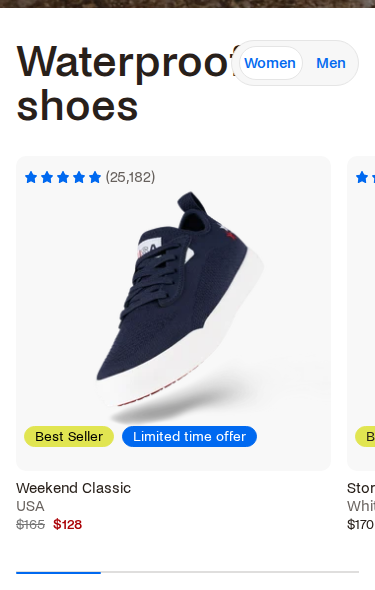
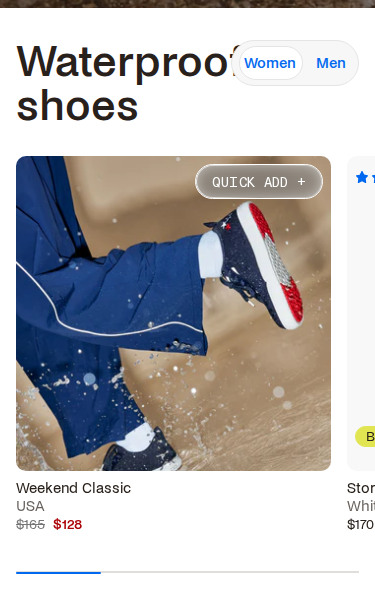
Vessi inventory (DTC-69 #34): interact retries + honest leftovers
Retry menu (#mobile-menu-drawer), PDP size radio, and cart ATC via UI.
Men tab still unchanged after two attempts. Announcement/search-375 stay
leftover. Todo and candidates updated; validator 0 error.

diff --git a/todo/vessi.md b/todo/vessi.md
@@ -3,8 +3,8 @@
 *Kaynak:* https://vessi.com · *Preset:* `default`  
 *Tema (vitrinde görülen, uydurulmadı):* **vessi-storefront/main-us** · `schema_name`: **Vessi** · `schema_version`: 1.0.0 · `theme_store_id`: null (custom) · shop `vessi-footwear.myshopify.com` · theme id `129927970901` · role `main`
 
-**Durum:** Mod A walk — observation JSON yazıldı; resmi 3vp + interact sırada  
-**PR:** draft · **main'e merge yok**
+**Durum:** Mod A walk kapandı · 46 obs · 164 PNG · 0 yeni şema  
+**PR:** draft https://github.com/mattiasadem/qante/pull/58 · **main'e merge yok**
 
 ---
 
@@ -18,7 +18,7 @@
 | Parallel | yalnız `observations/vessi/`, `evidence/vessi/`, `todo/vessi.md`, `candidates/vessi-*.md` |
 
 **Kapsam satırı:**  
-`Vessi · default · vessi-storefront/main-us (Vessi 1.0.0, custom) · home→PDP→PLP→search→cart-drawer→content→footer→mobile · 46 obs · 0 yeni şema · leftover: 404/reviews/Gorgias/quick-add/ID.me/map`
+`Vessi · default · vessi-storefront/main-us (Vessi 1.0.0, custom) · home→PDP→PLP→search→cart-drawer→content→footer→mobile · 46 obs · 164 PNG · 0 yeni şema · leftover: announcement-dismiss / Men-tab / search-375 / reviews / Gorgias / quick-add / ID.me / map`
 
 ---
 
@@ -26,18 +26,18 @@
 
 | Şablon | Durum | 3vp |
 |---|---|---|
-| Home + announcement/header/footer | JSON | [ ] |
-| Women mega 1440 / search `weekend` / cart empty+filled / mobile menu | JSON interact | [ ] |
-| PDP `/products/womens-weekend-classic-marble-white` | JSON | [ ] |
-| PLP `/collections/women` | JSON | [ ] |
-| Search `/search?q=weekend` (64) | JSON | [ ] |
-| Cart `/cart` → `/#cart` drawer | JSON | — sayfa yok |
-| Our Story `/pages/our-story` | JSON | [ ] |
-| Contact (form **yok**; e-posta tile) | JSON | [ ] |
-| Blog `/blogs/the-forecast` + `best-waterproof-shoes` | JSON | [ ] |
-| Privacy `main#MainContent` | JSON | [ ] |
-| Help / returns / warranty / sizing | JSON | [ ] |
-| 404 | JSON + leftover | [ ] |
+| Home + header/footer | done | [x] (announcement leftover) |
+| Women mega 1440 / search `weekend` 1440 / cart empty+filled / mobile menu | done | [x] (search 375/768 leftover; cart 375 filled = PDP) |
+| PDP `/products/womens-weekend-classic-marble-white` | done | [x] |
+| PLP `/collections/women` | done | [x] |
+| Search `/search?q=weekend` (64) | done | [x] |
+| Cart `/cart` → `/#cart` drawer | done | — sayfa yok |
+| Our Story `/pages/our-story` | done | [x] |
+| Contact (form **yok**; e-posta tile + Live Chat) | done | [x] |
+| Blog `/blogs/the-forecast` + `best-waterproof-shoes` | done | [x] |
+| Privacy `main#MainContent` | done | [x] |
+| Help / returns / warranty / sizing | done | [x] |
+| 404 | done + leftover | [x] |
 | Newsletter / claim / ID.me / tracking | ⛔ PII yok | — |
 
 ---
@@ -46,29 +46,29 @@
 
 | # | id | sayfa | Screenshot | Not | JSON | Done |
 |---|---|---|---|---|---|---|
-| 1 | promo-announcement-bar | home | [ ] | [x] | reuse | [ ] |
-| 2 | navigation-header-mega | home | [ ] + Women | [x] | reuse | [ ] |
-| 3 | hero-slideshow | home | [ ] | [x] | reuse | [ ] |
-| 4 | product-showcase-tabs | home | [ ] + Men | [x] | reuse | [ ] |
-| 5 | editorial-image-with-text | home banner | [ ] | [x] | reuse | [ ] |
-| 6–9 | collection-nav-image-cards ×4 | home | [ ] | [x] | reuse | [ ] |
-| 10 | promo-scrolling-marquee | home | [ ] | [x] | reuse | [ ] |
-| 11 | editorial-dynamic-grid | home rain | [ ] | [x] | reuse | [ ] |
-| 12 | media-shop-the-feed | home IG | [ ] | [x] | reuse | [ ] |
-| 13 | faq-collapsible-tabs | home | [ ] | [x] | reuse | [ ] |
-| 14 | footer-columns-newsletter | home | [ ] | [x] PII yok | reuse | [ ] |
-| 15 | global-cart-drawer | home | [ ] | [x] | reuse | [ ] |
-| 16 | global-predictive-search | home | [ ] | [x] | reuse | [ ] |
-| 17 | global-menu-drawer | home | [ ] 375/768 | [x] | reuse | [ ] |
-| 18–24 | PDP 7 section | product-detail | [ ] | [x] | reuse | [ ] |
-| 25 | product-showcase-grid-plp | collection | [ ] | [x] | reuse | [ ] |
-| 26 | search-results | search | [ ] | [x] | reuse | [ ] |
-| 27–30 | Our Story | about-brand | [ ] | [x] | reuse | [ ] |
-| 31–33 | Contact | contact | [ ] | [x] | reuse | [ ] |
-| 34–36 | Blog list + post | blog-* | [ ] | [x] | reuse | [ ] |
-| 37 | page-content-main | policy | [ ] | [x] | reuse | [ ] |
-| 38–45 | help/returns/warranty/sizing | faq-support | [ ] | [x] | reuse | [ ] |
-| 46 | page-content-main | not-found | [ ] | leftover | reuse | [ ] |
+| 1 | promo-announcement-bar | home | [ ] leftover | [x] | reuse | [ ] |
+| 2 | navigation-header-mega | home | [x] + Women 1440 | [x] | reuse | [x] |
+| 3 | hero-slideshow | home | [x] | [x] | reuse | [x] |
+| 4 | product-showcase-tabs | home | [x] Women; Men missing | [x] | reuse | [x] |
+| 5 | editorial-image-with-text | home banner | [x] | [x] | reuse | [x] |
+| 6–9 | collection-nav-image-cards ×4 | home | [x] | [x] | reuse | [x] |
+| 10 | promo-scrolling-marquee | home | [x] | [x] | reuse | [x] |
+| 11 | editorial-dynamic-grid | home rain | [x] | [x] | reuse | [x] |
+| 12 | media-shop-the-feed | home IG | [x] | [x] | reuse | [x] |
+| 13 | faq-collapsible-tabs | home | [x] waterproof | [x] | reuse | [x] |
+| 14 | footer-columns-newsletter | home | [x] PII yok | [x] | reuse | [x] |
+| 15 | global-cart-drawer | home | [x] empty + filled 768/1440 | [x] | reuse | [x] |
+| 16 | global-predictive-search | home | [x] 1440 only | [x] | reuse | [x] |
+| 17 | global-menu-drawer | home | [x] 375/768 | [x] | reuse | [x] |
+| 18–24 | PDP 7 section | product-detail | [x] + size 6 | [x] | reuse | [x] |
+| 25 | product-showcase-grid-plp | collection | [x] | [x] | reuse | [x] |
+| 26 | search-results | search | [x] | [x] | reuse | [x] |
+| 27–30 | Our Story | about-brand | [x] | [x] | reuse | [x] |
+| 31–33 | Contact | contact | [x] | [x] | reuse | [x] |
+| 34–36 | Blog list + post | blog-* | [x] | [x] | reuse | [x] |
+| 37 | page-content-main | policy | [x] | [x] | reuse | [x] |
+| 38–45 | help/returns/warranty/sizing | faq-support | [x] + Sizing tab | [x] | reuse | [x] |
+| 46 | page-content-main | not-found | [x] leftover | [x] | reuse | [x] |
 
 ---
 
@@ -76,14 +76,15 @@
 
 | Bileşen | State | Sonuç |
 |---|---|---|
-| navigation-header-mega | open | [ ] 1440 Women click drawer |
-| global-predictive-search | input | [ ] `weekend` |
-| global-cart-drawer | filled | [ ] Weekend Classic |
-| global-menu-drawer | open | [ ] 375/768 |
-| product-showcase-tabs | changed | [ ] Men |
-| product-info-main | changed | [ ] beden 6 |
-| faq-collapsible-tabs home | changed | [ ] waterproof |
-| faq-collapsible-tabs help | changed | [ ] Sizing tab |
+| navigation-header-mega | open | [x] 1440 Women mega |
+| global-predictive-search | input | [x] 1440 `weekend` 8 products; 375/768 leftover |
+| global-cart-drawer | filled | [x] ATC **ui** after size 6; 768/1440 drawer; 375 PDP (ikinci tık kapattı) |
+| global-menu-drawer | open | [x] 375/768 `#mobile-menu-drawer` |
+| product-showcase-tabs | changed | [ ] 2 deneme — Women kaldı |
+| product-info-main | changed | [x] size 6 → Add to Cart |
+| faq-collapsible-tabs home | changed | [x] waterproof icon + → − |
+| faq-collapsible-tabs help | changed | [x] Sizing tab |
+| promo-announcement-bar | initial | [ ] official dismiss `announcement-bar--dismissed` |
 
 ---
 
@@ -95,7 +96,10 @@
 
 ## Evidence backlog
 
-- [ ] Claiming obs resmi 3vp
-- [ ] Mega / search / cart / menu / tabs / PDP / FAQ interact
+- [x] Claiming obs resmi 3vp (42 section + header interact bar)
+- [x] Mega / search 1440 / cart / menu / PDP size / FAQ interact
+- [ ] Men tab (2 deneme, piksel yok)
+- [ ] Announcement 3vp (dismiss class)
+- [ ] Search 375/768 (ikon menü içinde)
 - [ ] Reviews app / Gorgias / quick-add / size-guide
 - [ ] Newsletter / warranty claim / ID.me / tracking — **yapılmayacak** (PII)

diff --git a/candidates/vessi-leftovers.md b/candidates/vessi-leftovers.md
@@ -9,34 +9,58 @@
 ---
 
 ADAY: vessi-404s  
-Gerekçe: Bilinçli 404 — `/this-page-does-not-exist-xyz` (404 template: THIS PAGE DOESN’T EXIST… Return Home). Yanlış tahmin URL’leri de 404: `/pages/about`, `/pages/stores`, `/pages/find-a-store`, `/blogs/blog`. `/pages/about-us` → `/pages/vegan`. `/pages/faq` ve `/pages/faqs` → `/a/faq`.  
+Gerekçe: Bilinçli 404 — `/this-page-does-not-exist-xyz` (Oops! THIS PAGE DOESN'T EXIST… Return Home). Yanlış tahmin URL’leri de 404: `/pages/about`, `/pages/stores`, `/pages/find-a-store`, `/blogs/blog`. `/pages/about-us` → `/pages/vegan`. `/pages/faq` ve `/pages/faqs` → `/a/faq`.  
 Örnekler: https://vessi.com/this-page-does-not-exist-xyz  
 Öneri: 404 gövde `page-content-main` parent obs  
 Karar: leftover + parent obs
 
 ---
 
+ADAY: vessi-announcement-dismiss  
+Gerekçe: Official `dismissAllOverlays` “Close announcement” tıklar → `announcement-bar--dismissed` (display:none). `forceOpen` class’ı silmez; 3vp 0px. Walk metni: Free shipping on orders $150 and over + Free exchanges.  
+Karar: leftover — üçüncü deneme yok
+
+---
+
+ADAY: vessi-men-tab  
+Gerekçe: Home `collection_carousel` Women\|Men. `text=Men` ve `a[role=tab]:has-text('Men')` tıklandı; Women tab + aynı 4 kart kaldı.  
+Karar: leftover — 2 deneme
+
+---
+
+ADAY: vessi-search-mobile  
+Gerekçe: 375/768 header’da `Open search` yok / `data-mobile-drawer-nav-trigger=search` viewport dışı. Arama ikonu `#mobile-menu-drawer` içinde. 1440 predictive OK.  
+Karar: leftover
+
+---
+
+ADAY: vessi-cart-375-toggle  
+Gerekçe: ATC UI drawer’ı açıyor; 375’te sonraki cart tık kapatıyor. filled.375 PNG = PDP + badge 1. 768/1440 drawer OK.  
+Karar: leftover — üçüncü deneme yok
+
+---
+
 ADAY: vessi-gorgias-faq-app  
-Gerekçe: `/a/faq` Shopify section gövdesi yok (yalnız chrome + footer). İlk dump’ta shopify main boş; ikinci istek 429. Contact’ta Gorgias chat iframe (`chat-button` 80×74). Overlay, section değil.  
+Gerekçe: `/a/faq` Shopify section gövdesi yok (yalnız chrome + footer). Contact Help Centre “Live Chat” + Gorgias `chat-button`. Overlay, section değil.  
 Karar: leftover — dismiss; şema yok
 
 ---
 
 ADAY: vessi-reviews-app  
-Gerekçe: PDP `#template--16074643898453__reviews_wrapper_zpPi8T` Customer reviews 4.67 / 25,182. Taksonomide reviews section yok.  
+Gerekçe: PDP `#template--16074643898453__reviews_wrapper_zpPi8T` Customer reviews ~4.67 / 25,184. Taksonomide reviews section yok.  
 Öneri: şema yok  
 Karar: leftover
 
 ---
 
 ADAY: vessi-store-locator  
-Gerekçe: PDP `stores` “FIND A STORE · BELLEVUE SQUARE, WASHINGTON” ~373px. `/pages/stores` ve `/pages/find-a-store` 404.  
+Gerekçe: PDP “Find a store”. `/pages/stores` ve `/pages/find-a-store` 404.  
 Karar: leftover — yeni şema yok
 
 ---
 
 ADAY: vessi-quick-add  
-Gerekçe: `#quick-add-drawer` / `#shopify-section-quick-add-drawer` DOM’da (empty, translateX off-screen). Size-guide-modal + product-size-guide-override 0px.  
+Gerekçe: Home carousel kart “QUICK ADD +” (hover 1440). `#quick-add-drawer` DOM’da. Size-guide-modal 0px.  
 Karar: leftover — `open` yoklandı değil
 
 ---
@@ -44,6 +68,12 @@ Karar: leftover — `open` yoklandı değil
 ADAY: vessi-cart-page  
 Gerekçe: `/cart` → `https://vessi.com/#cart`. Sepet yalnız `cart-drawer`. `cart-page-main` yok.  
 Karar: leftover
+
+---
+
+ADAY: vessi-header-dismiss  
+Gerekçe: Official dismiss `HEADER-V2`’yi tam ekran overlay sanıp `display:none`. Interact `forceOpen header-v2.header-v2` ile geri.  
+Karar: leftover — script tuzak; şema yok
 
 ---
 
@@ -72,7 +102,7 @@ Karar: leftover
 ---
 
 ADAY: vessi-rate-limit  
-Gerekçe: İlk walk’ta `/collections/sale`, `/collections/women`, `/a/faq` (2.), `/blogs/the-forecast` (2.) 429 “Just a moment…”. Women sonraki curl’de 200.  
+Gerekçe: İlk walk’ta `/collections/sale`, `/collections/women`, `/a/faq` (2.), `/blogs/the-forecast` (2.) 429. Women sonraki istekte 200.  
 Karar: leftover — capture aralıklı
 
 ---
@@ -85,9 +115,11 @@ Karar: leftover
 
 ## Bilinçli atlananlar
 
-- `/account` / login / checkout  
+- `/account` / login / checkout / Secure Checkout tık  
 - Newsletter Subscribe + warranty Start Claim + order tracking + ID.me + refer-a-friend (PII)  
 - Divider / 0px section’lar  
 - Blog related + ikinci forecast carousel  
 - Our-story kalan two_column / banner tekrarları  
-- Help-centre support_tiles (contact tiles ile aynı aile)
+- Help-centre support_tiles (contact tiles ile aynı aile)  
+- Mobile menu Women/Men/Support accordion `changed`  
+- Predictive search 375/768 (menü içi ikon; üçüncü deneme yok)
